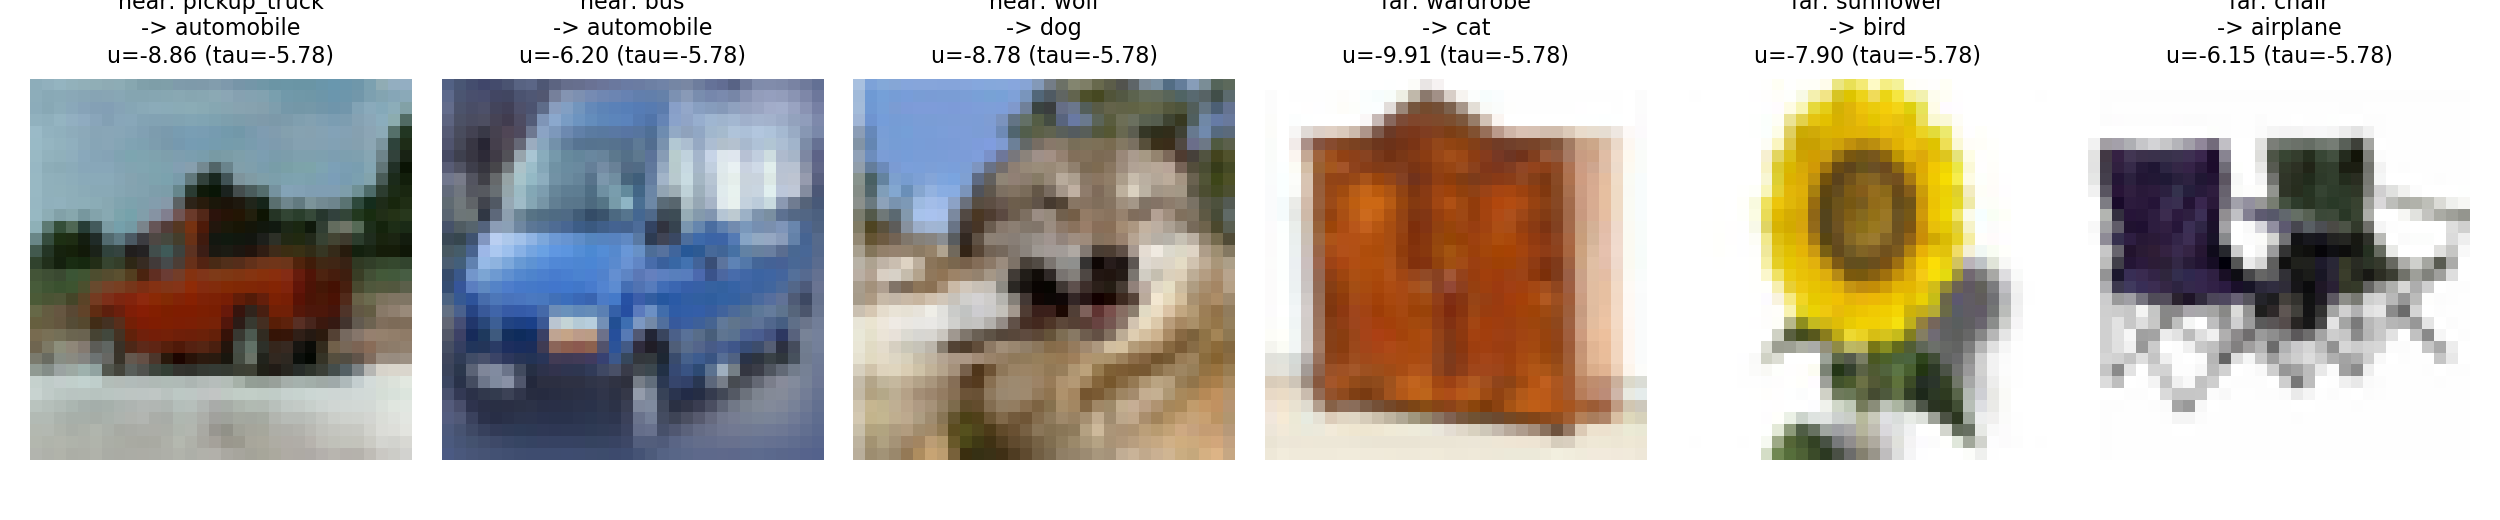
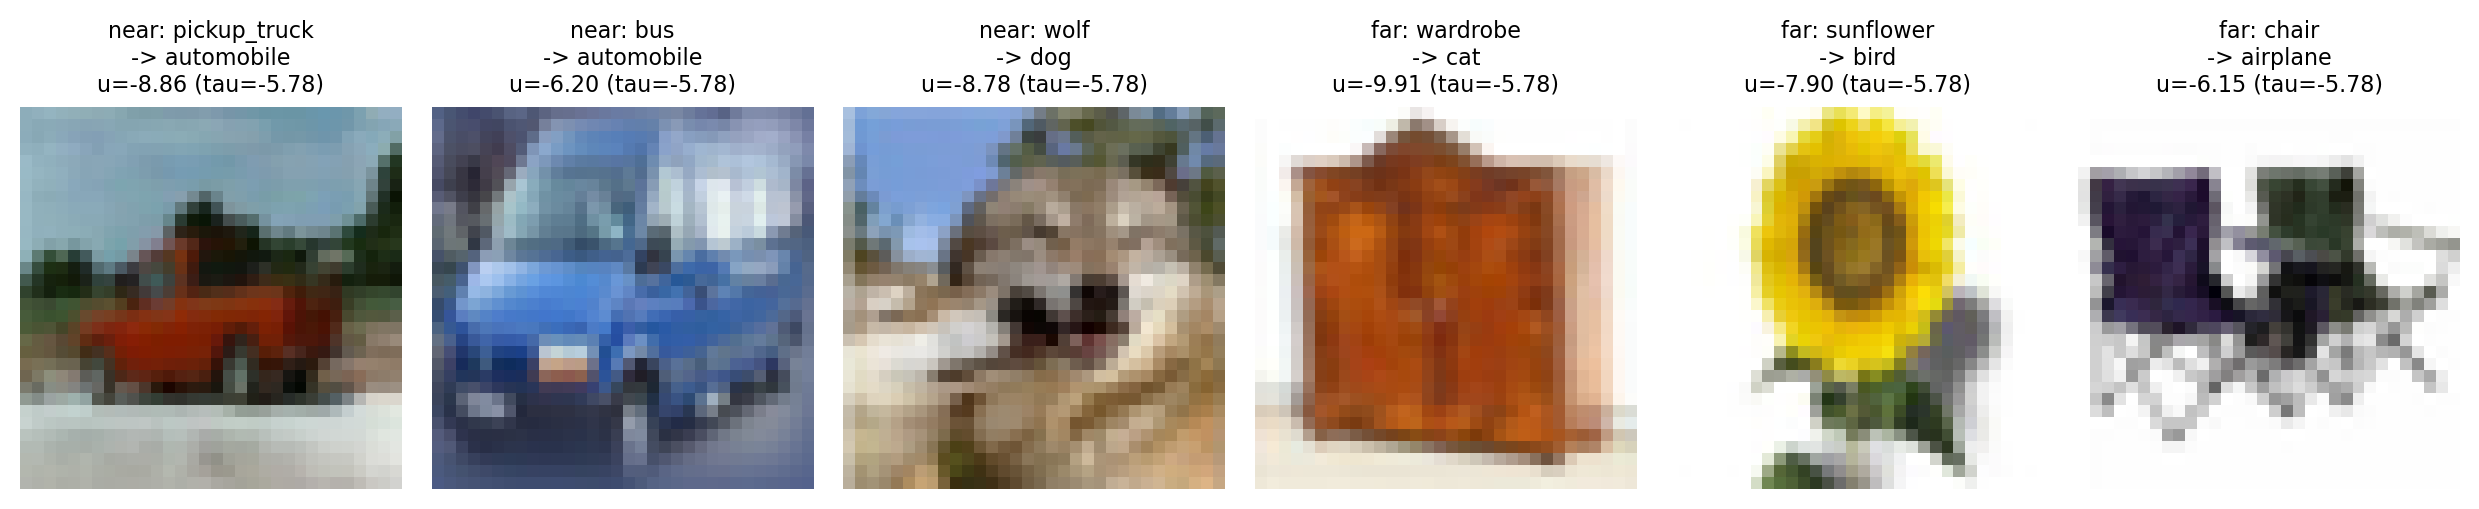
bbox tight plot added for more compact figure

diff --git a/report/make_pacs_curves.py b/report/make_pacs_curves.py
@@ -1,0 +1,107 @@
+"""
+One compact training-curve figure for Tasks 2 and 3 (replaces the seven
+separate task2_*_curves.png / task3_*_curves.png files in the report).
+
+Reads ONLY the committed result JSONs, so every plotted value traces to a
+saved file. Run from the repo root:
+
+    python report/make_pacs_curves.py
+
+Writes report/figures/pacs_training_curves.png
+"""
+import json
+import math
+from pathlib import Path
+
+import matplotlib.pyplot as plt
+
+ROOT = Path(__file__).resolve().parents[1]
+OUT = ROOT / "report" / "figures" / "pacs_training_curves.png"
+
+
+def hist(path):
+    with open(ROOT / path) as f:
+        d = json.load(f)
+    return d["history"], d["best_epoch"]
+
+
+T2 = {  # label: (json, colour)
+    "Source-only": ("task2/results/source_only.json", "k"),
+    "DAN": ("task2/results/dan.json", "tab:blue"),
+    "DANN": ("task2/results/dann.json", "tab:orange"),
+    "CDAN": ("task2/results/cdan.json", "tab:red"),
+}
+T3 = {
+    "ERM": ("task2/results/source_only.json", "k"),   # reused unchanged
+    "DAN-DG": ("task3/results/dan_dg.json", "tab:purple"),
+    "SAM": ("task3/results/sam.json", "tab:green"),
+}
+LN7 = math.log(7)   # cross-entropy of a uniform guess over 7 classes
+
+plt.rcParams.update({"font.size": 8, "axes.titlesize": 8, "legend.fontsize": 6.5,
+                     "axes.labelsize": 8, "xtick.labelsize": 7, "ytick.labelsize": 7})
+fig, ax = plt.subplots(2, 4, figsize=(10, 4.6))
+
+
+def ep(h):
+    return [e["epoch"] for e in h]
+
+
+def mark_best(a, h, best, key, c):
+    y = [e[key] for e in h if e["epoch"] == best]
+    if y:
+        a.scatter([best], y, s=28, facecolors="none", edgecolors=c, linewidths=1.2, zorder=5)
+
+
+# ---------------- row 1: Task 2 (UDA) ----------------
+for lab, (p, c) in T2.items():
+    h, best = hist(p)
+    ax[0, 0].plot(ep(h), [e["loss_cls"] for e in h], "-o", ms=2.5, c=c, label=lab)
+    ax[0, 3].plot(ep(h), [e["mean_macro_f1"] for e in h], "-o", ms=2.5, c=c, label=lab)
+    mark_best(ax[0, 3], h, best, "mean_macro_f1", c)
+    if lab == "DAN":
+        ax[0, 1].plot(ep(h), [e["loss_mmd"] for e in h], "-o", ms=2.5, c=c, label="DAN: MMD$^2$")
+    if lab in ("DANN", "CDAN"):
+        ax[0, 1].plot(ep(h), [e["loss_dom"] for e in h], "-s", ms=2.5, c=c, label=f"{lab}: domain CE")
+        ax[0, 2].plot(ep(h), [e["domain_acc"] for e in h], "-s", ms=2.5, c=c, label=lab)
+
+ax[0, 0].axhline(LN7, ls=":", c="grey", lw=0.8)
+ax[0, 0].set_yscale("log")
+ax[0, 0].set_title("T2: source classification loss")
+ax[0, 1].axhline(math.log(2), ls=":", c="grey", lw=0.8)
+ax[0, 1].set_yscale("log")
+ax[0, 1].set_title("T2: alignment / domain loss")
+ax[0, 2].axhline(0.5, ls=":", c="grey", lw=0.8)
+ax[0, 2].set_ylim(0.25, 0.85)
+ax[0, 2].set_title("T2: online discriminator acc.")
+ax[0, 3].set_title("T2: mean source-val macro-F1")
+
+# ---------------- row 2: Task 3 (DG) ----------------
+for lab, (p, c) in T3.items():
+    h, best = hist(p)
+    ax[1, 0].plot(ep(h), [e["loss_cls"] for e in h], "-o", ms=2.5, c=c, label=lab)
+    ax[1, 3].plot(ep(h), [e["mean_macro_f1"] for e in h], "-o", ms=2.5, c=c, label=lab)
+    mark_best(ax[1, 3], h, best, "mean_macro_f1", c)
+    if lab == "DAN-DG":
+        for k, name in (("mmd_pa", "P-A"), ("mmd_pc", "P-C"), ("mmd_ac", "A-C")):
+            ax[1, 1].plot(ep(h), [e[k] for e in h], "-o", ms=2.5, label=f"MMD$^2$ {name}")
+    if lab == "SAM":
+        ax[1, 2].plot(ep(h), [e["loss_gap"] for e in h], "-o", ms=2.5, c=c,
+                      label="SAM: $L(\\theta+\\epsilon)-L(\\theta)$")
+
+ax[1, 0].axhline(LN7, ls=":", c="grey", lw=0.8)
+ax[1, 0].set_yscale("log")
+ax[1, 0].set_title("T3: classification loss")
+ax[1, 1].set_title("T3: DAN-DG pairwise MMD$^2$ ($\\lambda_{DG}=1$)")
+ax[1, 2].set_title("T3: SAM perturbation loss gap")
+ax[1, 3].set_title("T3: mean source-val macro-F1")
+
+for a in ax.flat:
+    a.set_xlabel("epoch")
+    a.grid(alpha=0.25, lw=0.5)
+    a.legend(frameon=False, loc="best")
+
+fig.tight_layout()
+OUT.parent.mkdir(parents=True, exist_ok=True)
+fig.savefig(OUT, dpi=300, bbox_inches="tight")
+print("saved", OUT)
